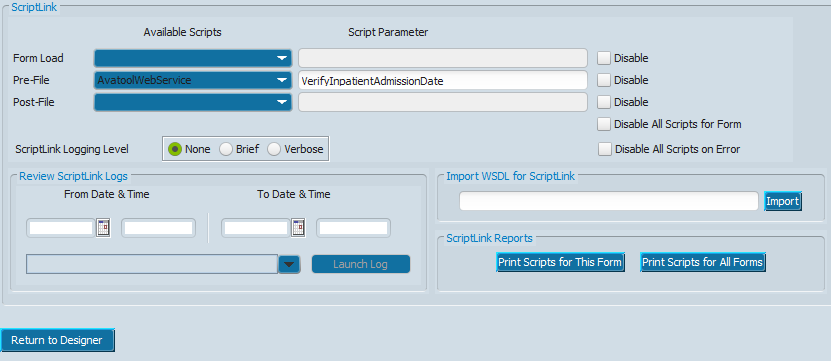
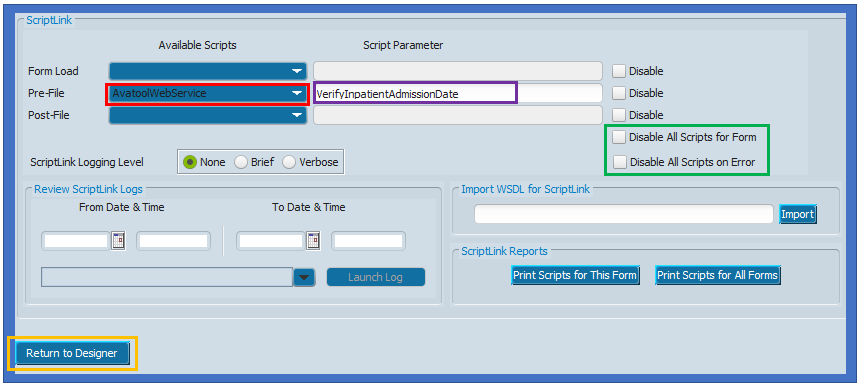
Documentation/image updates

Changed region(s): [[0.0, 0.0, 1.0, 1.0], [0.3008, 0.518, 0.4212, 0.5485]]

diff --git a/README.md b/README.md
@@ -112,7 +112,51 @@ There are a variety of ways to use custom web services with myAvatar, the most c
 
 You can also use custom web services with fields and controls, but that is beyond the scope of this documentation.
 
+### ADDING A SCRIPT LINK TO A FORM
+In order to have the Avatar Web Service do something, you need to have something *call* the web service. You'll do this by adding a ScriptLink event on the form you're working with. In order to do this:
+1. Open the **Form Designer** form
+2. Choose the myAvatar™ form you want to use from the **Forms** dropdown
+3. Choose the form tab from the **Tabs** dropdown
+4. Click the **Show Tab** button
+
+You will now see the form tab in designer mode. In the upper left of myAvatar™ you will see a **Settings** button:
+
+![Form Designer settings](https://github.com/spectrum-health-systems/Avatool-Web-Service/blob/master/reporesources/image/readme/form-designer-settings-button.png)
+
+Clicking the **Settings** button will bring you to the ScriptLink options page:
+
 ![Blank ScriptLink options](https://github.com/spectrum-health-systems/Avatool-Web-Service/blob/master/reporesources/image/readme/scriptlink-blank.png)
+
+The first thing you will need to do is import the Avatool Web Service WSDL. Before you actually click the **Import **button, you should make sure that the WSDL URL is correct. You can verify the WDSL URL by typing it into a web browser address bar.
+
+For example, URL of `https://your-organization.com/AvatoolWebService.asmx?WSDL` should display XML that looks something like this:
+
+![XML example](https://github.com/spectrum-health-systems/Avatool-Web-Service/blob/master/reporesources/image/readme/xml-example.png)
+
+If you see the XML:
+1. Copy/paste the URL from your browsers address bar into the **Import WSDL for ScriptLink** field in myAvatar
+2. Click the **Import** button.
+
+You should get a popup letting you know the WSDL was imported successfully.
+
+Next we will need to choose an event that will call the Avatool Web Service, and determine the action that will take place. This will all be done on the ScriptLink options page:
+
+![ScriptLink options example](https://github.com/spectrum-health-systems/Avatool-Web-Service/blob/master/reporesources/image/readme/scriptlink-example.png)
+
+Our example will use the **Pre-File** event
+1. Click the dropdown in the **Pre-File** row under the **Availble Scripts** column
+2. Choose **AvatoolWebService** (the *red* box)
+3. Type "VerifyInpatientAdmissionDate" in the **Pre-File** row under the **Script Parameter** column (the *purple* box)
+4. Uncheck the **Disable All Scripts For Form** and **Disable All Scripts on Error** boxes  (the *green* box)
+5. Click **Return to Designer** (the *yellow* box)
+
+
+
+
+
+
+
+
 
 # UPDATING
 
